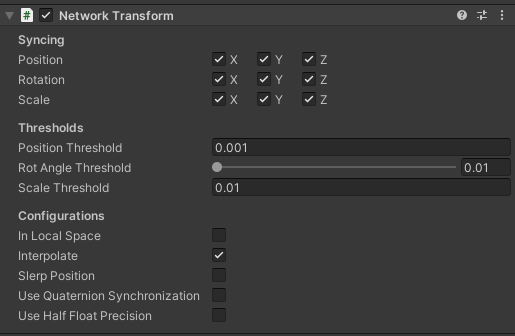
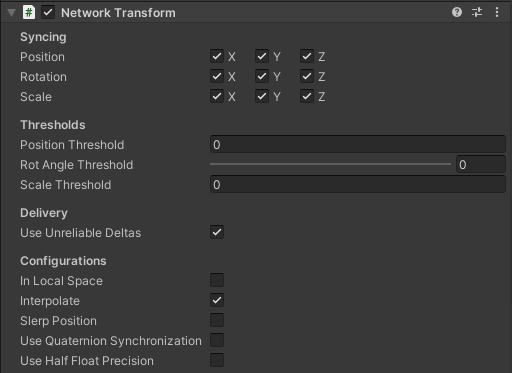
update: NetworkTransform network delivery update and UseUnreliableDeltas property. (#1127)

diff --git a/docs/components/networktransform.md b/docs/components/networktransform.md
@@ -6,6 +6,7 @@ title: NetworkTransform
 import ImageSwitcher from '@site/src/ImageSwitcher.js';
 
 ## Introduction
+
 The synchronization of an object's transform is one of the most common netcode tasks performed in multiplayer games today. The concept seems simple:
 - Determine which transform axis you want to have synchronized
 - Serialize the values
@@ -24,6 +25,7 @@ For example, the above itemized tasks don't take into consideration:
 Fortunately, Netcode for GameObjects provides you withNetworkTransform component implementation that handles some of the trickier aspects of transform synchronization and is easily configurable by properties accessible via the in-editor inspector view.
 
 ## Adding
+
 When adding a NetworkTransform component to a GameObject, you should always make sure the GameObject has a NetworkObject component attached to it or that the GameObject's transform parent is assigned to a GameObject with a NetworkObject component attached to it like in the image below:
 
 ![image](/img/NetworkTransformSimple.png)
@@ -47,16 +49,18 @@ With nested NetworkTransforms, you can (theoretically) have the (n) number of ne
  _You could have a single root-parent GameObject that has a NetworkObject component and under the root-parent several levels of nested child GameObjects that all have NetworkTransform components attached to them. Each child GameObject would not require a NetworkObject component in order for each respective NetworkTransform component to function/synchronize properly._
 :::
 
-
 ## Configuring
+
 When you select a NetworkTransform component, you will see the following properties in the inspector view:
 
 ![image](/img/NetworkTransformProperties.png)
 
-### Property Synchronization
+### Property synchronization
+
 Some of the `NetworkTransform` properties are automatically synchronized by the authoritative instance to all non-authoritative instances.  It is **important to note** that when any synchronized property changes the NetworkTransform is effectively "teleported" (i.e. all values re-synchronized and interpolation is reset) which can cause a single frame delta in position, rotation, and scale (depending upon what is being synchronized). _Always keep this in mind when making adjustments to NetworkTransform properties during runtime._
 
-### Synchronizing ("Syncing")
+### Synchronizing
+
 You often don't need to synchronize all transform values of a GameObject over the network. For instance, if the scale of the GameObject never changes, you can deactivate it in the **syncing scale** row in the Inspector. Deactivating synchronization saves CPU costs and network bandwidth.
 
 The term "synchronizing" refers to the synchronization of axis values over time. This is not to be confused with the initial synchronization of a transform's values. As an example:
@@ -74,6 +78,20 @@ If your `NetworkTransform` has `Interpolate` enabled, you might find that you ca
 Threshold values are not synchronized, but they can be updated on the [authoritative instance](networktransform#authority-modes). You should keep this in mind when using [owner authoritative mode](networktransform#owner-authoritative-mode) instances since changing ownership will use whatever values are currently set on the new owner instance. If you plan on changing the threshold value during runtime and plan on changing ownership, then you might need to synchronize the threshold values as well.
 :::
 
+### Delivery
+
+
+Sometimes network conditions are not exactly "optimal" where packets can have both undesirable latency and even the dreaded packet loss. When NetworkTransform interpolation is enabled, packet loss can mean undesirable visual artifacts (_i.e. large visual motion gaps often referred to as "stutter"_). Originally, NetworkTransform sent every state update using reliable fragmented sequenced network delivery. For interpolation, with enough latency and packet loss this could cause a time gap between interpolation points which eventually would lead to the motion "stutter". Fortunately, NetworkTransform has been continually evolving and defaults to sending the more common delta state updates (_i.e. position, rotation, or scale changes_) as unreliable sequenced network delivered messages. If one state is dropped then the `BufferedLinearInterpolator` can recover easily as it doesn't have to wait precisely for the next state update and can just lose a small portion of the over-all interpolated path (_i.e. with a TickRate setting of 30 you could lose 5 to 10% of the over-all state updates over one second and still have a relatively similar interpolated path to that of a perfectly delivered 30 delta state updates generated path_). As such, the UseUnreliableDeltas NetworkTransform property, default to enabled, controls whether you send your delta state updates unreliably or reliably.
+
+Of course, you might wonder what would happen if say 5% of a jumping motion, towards the end of the jumping motion, were dropped how NetworkTransform might recover since each state update sent is only based on axial deltas defined by each axis threshold settings. The answer is that there is a small bandwidth penalty for sending standard delta state updates unreliably: Axial Frame Synchronization.
+
+#### Axial frame synchronization
+
+When unreliable delta state updates is enabled (UseUnreliableDeltas is enabled), NetworkTransform instances are assigned a constantly rolling tick position relative to a 1 second period of time. So, if you are using the default `NetworkConfig.TickRate` value (30) there are 30 "tick slots" that each NetworkTransform instance is distributed amongst on the authoritative instance. This means that each instance will send 1 Axial Frame Synchronization update per second while the NetworkObject in question is moving, rotating, or scaling enough to trigger delta state updates. When a NetworkObject comes to rest (i.e. no longer sending delta state updates) the Axial Frame Synchronization stops. This assures that if a vital portion of a state update is dropped, within a 1 second period of time, all axis marked to be synchronized will be synchronized to provide an eventual consistency in axis synchronization between the authority and non-authority instances.
+
+:::info
+If bandwidth consumption becomes a concern and you have tested your project under normal network conditions with UseUnreliableDeltas disabled with no noticeable visual artifacts, then you can opt out of unreliable delta state updates to recover the minor penalty for being packet loss tolerant or you might opt to make that an in-game configuration setting that players can enable or disable. You just need to update the authoritative NetworkTransform instances with any change in the setting during runtime.
+:::
 
 ### Local space
 
@@ -103,9 +121,11 @@ darkImageSrc="/BufferedTick_Dark.png?text=DarkMode"/>
 </figure>
 
 ### Slerp Position
+
 When this property and **Interpolation** are both set, non-authoritative instances will [Slerp](https://docs.unity3d.com/ScriptReference/Vector3.Slerp.html) towards their destination position as opposed to [Lerp](https://docs.unity3d.com/ScriptReference/Vector3.Lerp.html). Typically this can be used when your object is following a circular and/or spline based motion path and you want to preserve the curvature of that path. Since "lerping" between two points yields a linear progression over a line between two points, there can be scenarios where the frequency of delta position state updates could yield a loss in the curvature of an object's motion.  
 
-### Use Quaternion Synchronization
+### Use quaternion synchronization
+
 By default, rotation deltas are synchronized using Euler values. For many scenarios, using Euler values might be all that is needed. However, there are scenarios where synchronizing Euler deltas will yield undesirable results. One scenario is when you have complex nested NetworkTransforms where there are varying rotations between the parents and children transforms. When you add interpolation into the mix (_remember interpolation is buffered and has an inherent delay between the non-authoritative's current rotation and the target rotation_), there are adjustments that occur immediately within a Quaternion that handle more complex transform related issues (i.e. Gimbal Lock, etc).
 
 With Quaternion synchronization enabled, the authoritative instance still compares threshold values against the Euler axis values to determine if an update in a transform's rotation is needed but the entire Quaternion itself is updated as opposed to just the Euler axis where the change(s) is/are detected. This means that you are guaranteed the proper rotation for an object will be applied to non-authoritative instances and the changes will have already accounted for more complex issues that can arise with Euler angles.
@@ -120,7 +140,8 @@ The rotation synchronization axis checkboxes are no longer available when **Use 
 
 :::
 
-### Use Quaternion Compression
+### Use quaternion compression
+
 Since synchronizing a quaternion can increase the bandwidth cost per update of a `NetworkTransform`'s rotation state, there are two ways to reduce the over-all bandwidth cost of quaternion synchronization:
 - **Quaternion Compression:** This provides the highest compression (16 bytes reduced down to 4 bytes per update) with a slightly higher precision loss than half float precision.
 - **Half Float Precision:** When enabled and **Use Quaternion Compression** is disabled, this provides an alternate mid-level compression (16 bytes reduced down to 8 bytes per update) with less precision than full float values but higher precision than quaternion compression.
@@ -129,7 +150,7 @@ Quaternion compression is based on a smallest three algorithm that can be used w
 
 This property value can be updated on the authority during runtime and will be synchronized on all non-authority instances. _Reminder: Updating this value during runtime on the authoritative instance will result in a full synchronization of the NetworkTransform and all non-authority instances will have their interpolators reset._
 
-### Use Half Float Precision
+### Use half float precision
 Enabling this property does exactly what it sounds like, it converts any transform axial value from a 4 byte float to a 2 byte half-float at the expense of a loss in precision. When this option is enabled, half float precision is used for all transform axis marked for synchronization. However, there are some unique aspects of half float precision when it comes to position and rotation.
 
 Since there is a loss in precision, position state updates only provide the delta in position relative to the last known full position. The `NetworkDeltaPosition` serializable structure keeps track of the current delta between the last known full position and the current delta offset from the last known full position. Additionally, `NetworkDeltaPosition` auto-corrects precision loss by determining any loss of precision on the authoritative side when sending an update. Any precision delta from the previous update will be included in the next position update. _In other words, non-authoritative instances can potentially have a fractional delta (per applied update) from the authoritative instance for the duration of 1 network tick period or until the next transform state update is received._ Additionally, `NetworkDeltaPosition` bridges the gap between the [maximum half float value](https://github.com/Unity-Technologies/Unity.Mathematics/blob/701d58fde76f3b93e40d0a792cd8fa4c130f1450/src/Unity.Mathematics/half.cs#L25) and the maximum boundaries of the Unity World space (global/project scale relative).
@@ -151,7 +172,8 @@ All of these properties are synchronized to non-authoritative instances when upd
 
 ## Authority modes
 
-### Server Authoritative Mode
+### Server authoritative mode
+
 By default, `NetworkTransform` operates in server authoritative mode. This means that changes to transform axis (marked to be synchronized) are detected on the server-side and pushed to connected clients. This also means any changes to the transform axis values will be overridden by the authoritative state (in this case the server-side transform state).
 
 There is another concept to keep in mind about axis synchronization vs the initial synchronized transform values. Any axis not marked to be synchronized will still be updated with the authority's initial state when a NetworkObject is spawned or when a client is synchronized for the first time.
@@ -162,7 +184,7 @@ Say you have marked only the position and rotation axis to be synchronized but e
 :::
 
 
-### Owner Authoritative Mode
+### Owner authoritative mode
 **(a.k.a ClientNetworkTransform)**
 
  Server-side authority NetworkTransforms provide a balance between synchronized transforms and the latency between applying the updates on all connected clients. However, there are times when you want the position to update immediately for a specific NetworkObject (common the player) on the client-side. Owner authority of a NetworkTransform is dictated by the `NetworkTransform.OnIsServerAuthoritative` method when a NetworkTransform component is first initialized. If it returns `true` (the default) then it initializes as a server authoritative `NetworkTransform`. If it returns `false` then it initializes as an owner authoritative `NetworkTransform` (a.k.a. `ClientNetworkTransform`). This can be achieved by deriving from `NetworkTransform`, overriding the `OnIsServerAuthoritative` virtual method, and returning false like in the code example below:
@@ -186,7 +208,7 @@ Optionally, you can directly add this line to your `manifest.json` file:
 
 `"com.unity.multiplayer.samples.coop": "https://github.com/Unity-Technologies/com.unity.multiplayer.samples.coop.git?path=/Packages/com.unity.multiplayer.samples.coop#main"`
 
-## Additional Virtual Methods of Interest
+## Additional virtual methods of interest
 
 `NetworkTransform.OnAuthorityPushTransformState`: This virtual method is invoked when the authoritative instance is pushing a new `NetworkTransformState` to non-authoritative instances. This can be used to better determine the precise values updated to non-authoritative instances for prediction related tasks.
 
